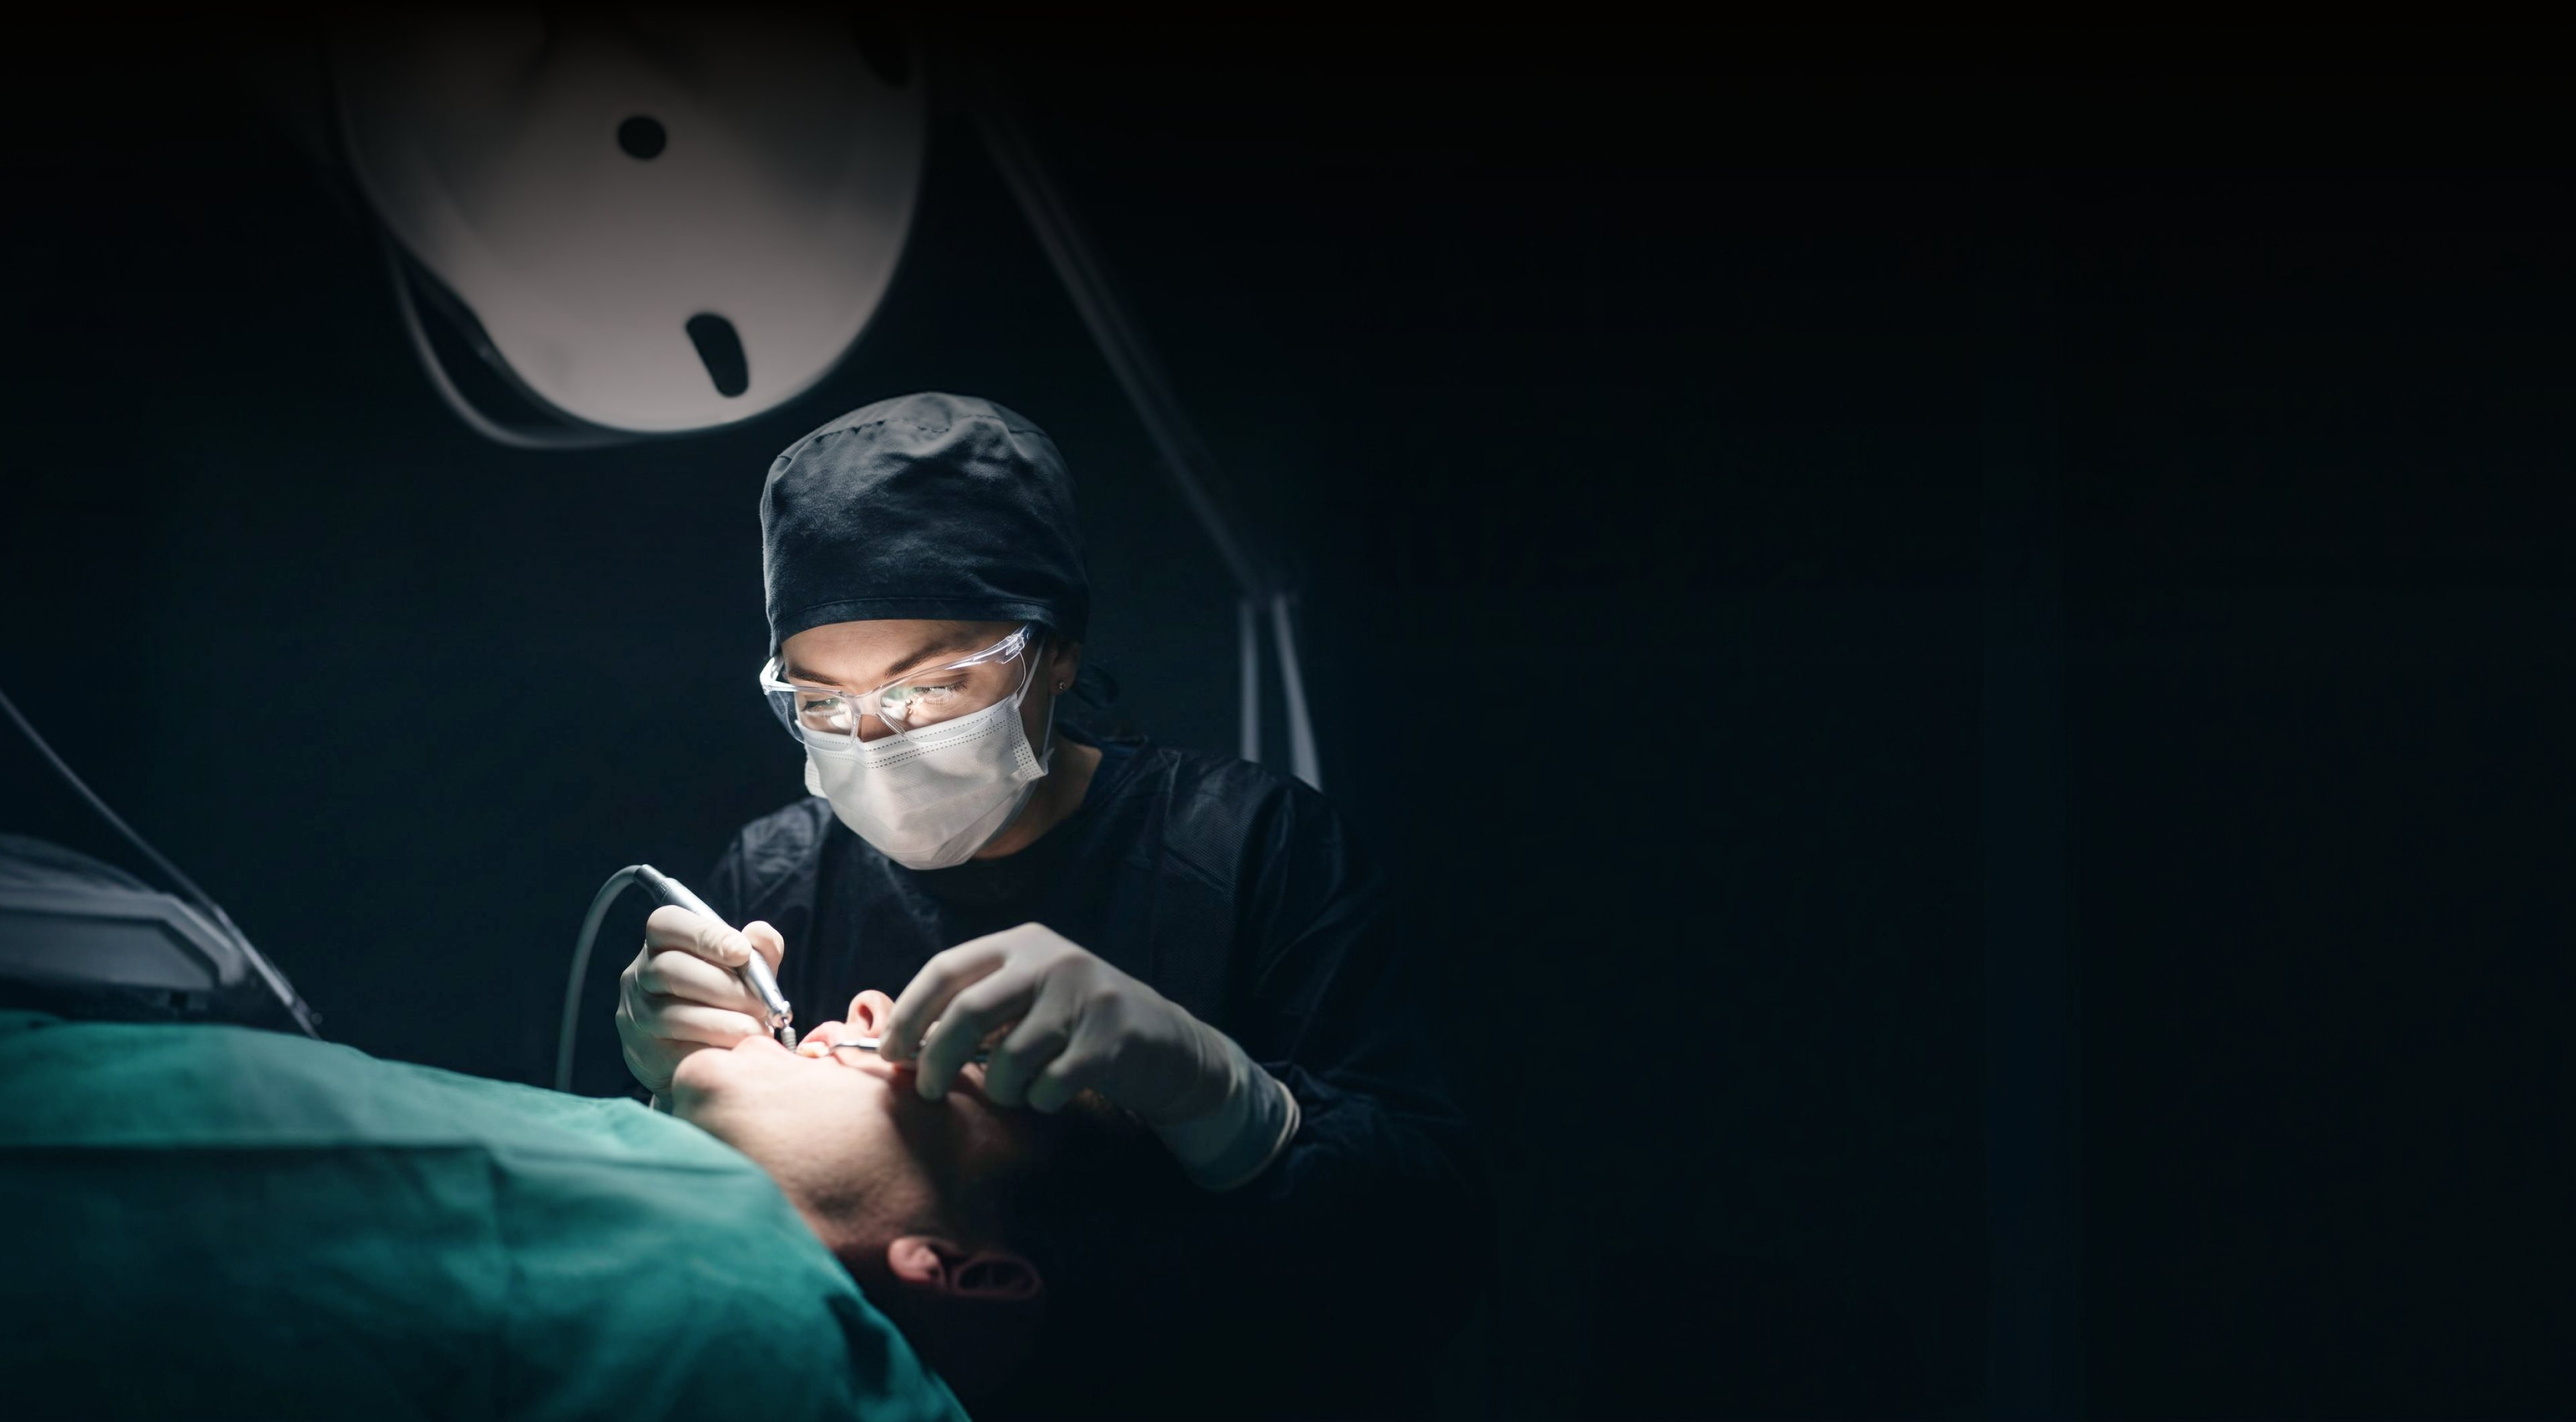
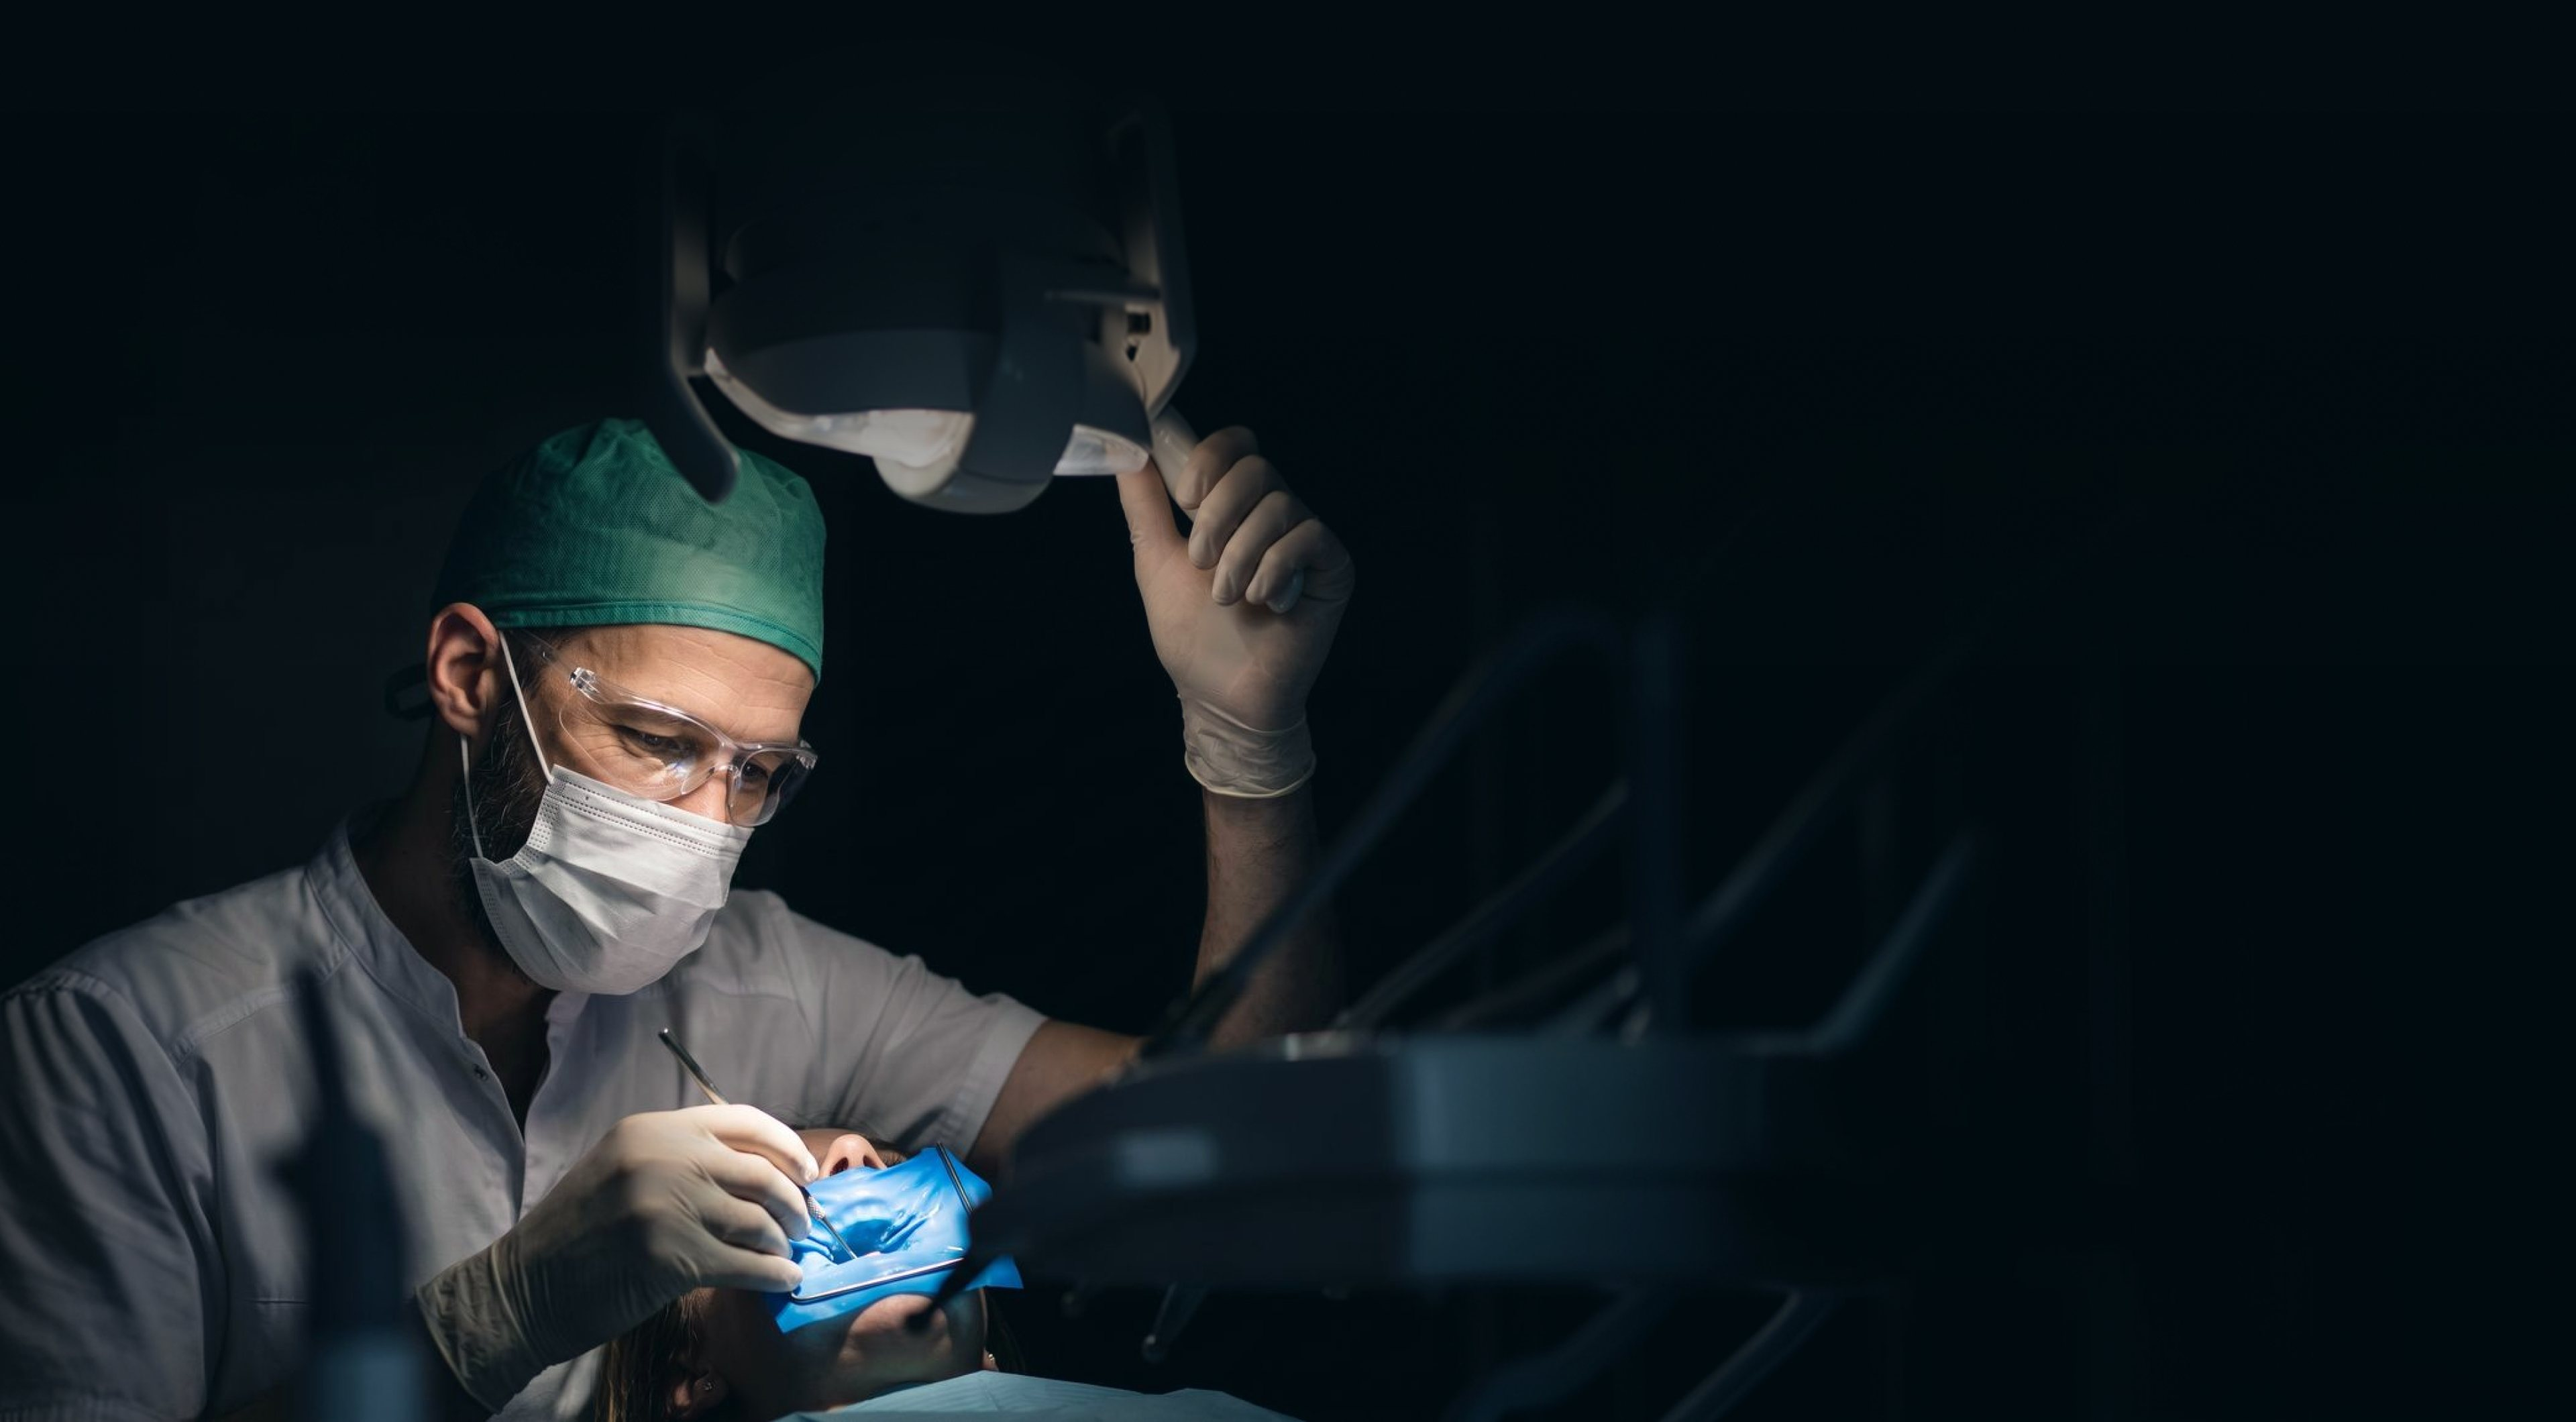
Имплантация: новое фото, закреплённый фон не выходит за пределы секции
Фото теперь лежит в абсолютной «дорожке» на всю высоту секции и
закрепляется внутри неё, поэтому уезжает вместе с низом блока и не
наезжает на «Директора». Заодно счётчик «18 лет» не теряет пробел.

Claude-Session: https://claude.ai/code/session_015XqF1D8Sgxor6ZdRqh4t5W

Changed region(s): [[0.0, 0.0311, 0.6562, 1.0], [0.0, 0.4981, 0.0312, 0.5604], [0.7188, 0.6849, 0.75, 0.716]]

diff --git a/index.html b/index.html
@@ -7,7 +7,7 @@
 <meta name="description" content="Стоматология Алексея Горбачева в Нижнем Новгороде. КТ в клинике, письменная смета до начала лечения, имплант и коронка у одного врача.">
 <link rel="icon" href="assets/favicon.svg?v=2" type="image/svg+xml">
 <link rel="preload" href="assets/geologica.woff?v=2" as="font" type="font/woff" crossorigin>
-<link rel="stylesheet" href="styles.css?v=4">
+<link rel="stylesheet" href="styles.css?v=5">
 <script>
   (function (d) {
     if (!('IntersectionObserver' in window) || matchMedia('(prefers-reduced-motion: reduce)').matches) return;
@@ -180,7 +180,7 @@
 
 <!-- 04 Имплантация -->
 <section class="sec sec--dark sec--impl" id="implant">
-  <div class="impl__bg" aria-hidden="true"><img src="assets/implant-bg.jpg?v=4" alt="" width="1920" height="1060" loading="lazy"></div>
+  <div class="impl__track" aria-hidden="true"><div class="impl__bg"><img src="assets/implant-bg.jpg?v=5" alt="" width="1920" height="1060" loading="lazy"></div></div>
   <div class="wrap impl__wrap">
     <div class="sec__head">
       <h2 class="h2">Имплант и коронку <br>вам поставит один врач</h2>

diff --git a/styles.css b/styles.css
@@ -259,7 +259,9 @@ section[id] { scroll-margin-top: 80px; }
 
 /* ---------- 04 Имплантация ---------- */
 .sec--impl { position: relative; background: #414141; }
-.impl__bg { position: sticky; top: 0; z-index: 0; height: min(1060px, 100vh); margin: -140px 0 calc(140px - min(1060px, 100vh)); overflow: hidden; pointer-events: none; }
+/* Фото закреплено, пока прокручивается секция, и уходит вместе с её низом */
+.impl__track { position: absolute; inset: 0; z-index: 0; pointer-events: none; }
+.impl__bg { position: sticky; top: 0; height: min(1060px, 100vh); overflow: hidden; }
 .impl__bg img { width: 100%; height: 100%; object-fit: cover; object-position: 50% 100%; }
 .impl__wrap { position: relative; z-index: 1; }
 .impl__col { display: flex; flex-direction: column; gap: 64px; width: 598px; max-width: 100%; margin-left: auto; }
